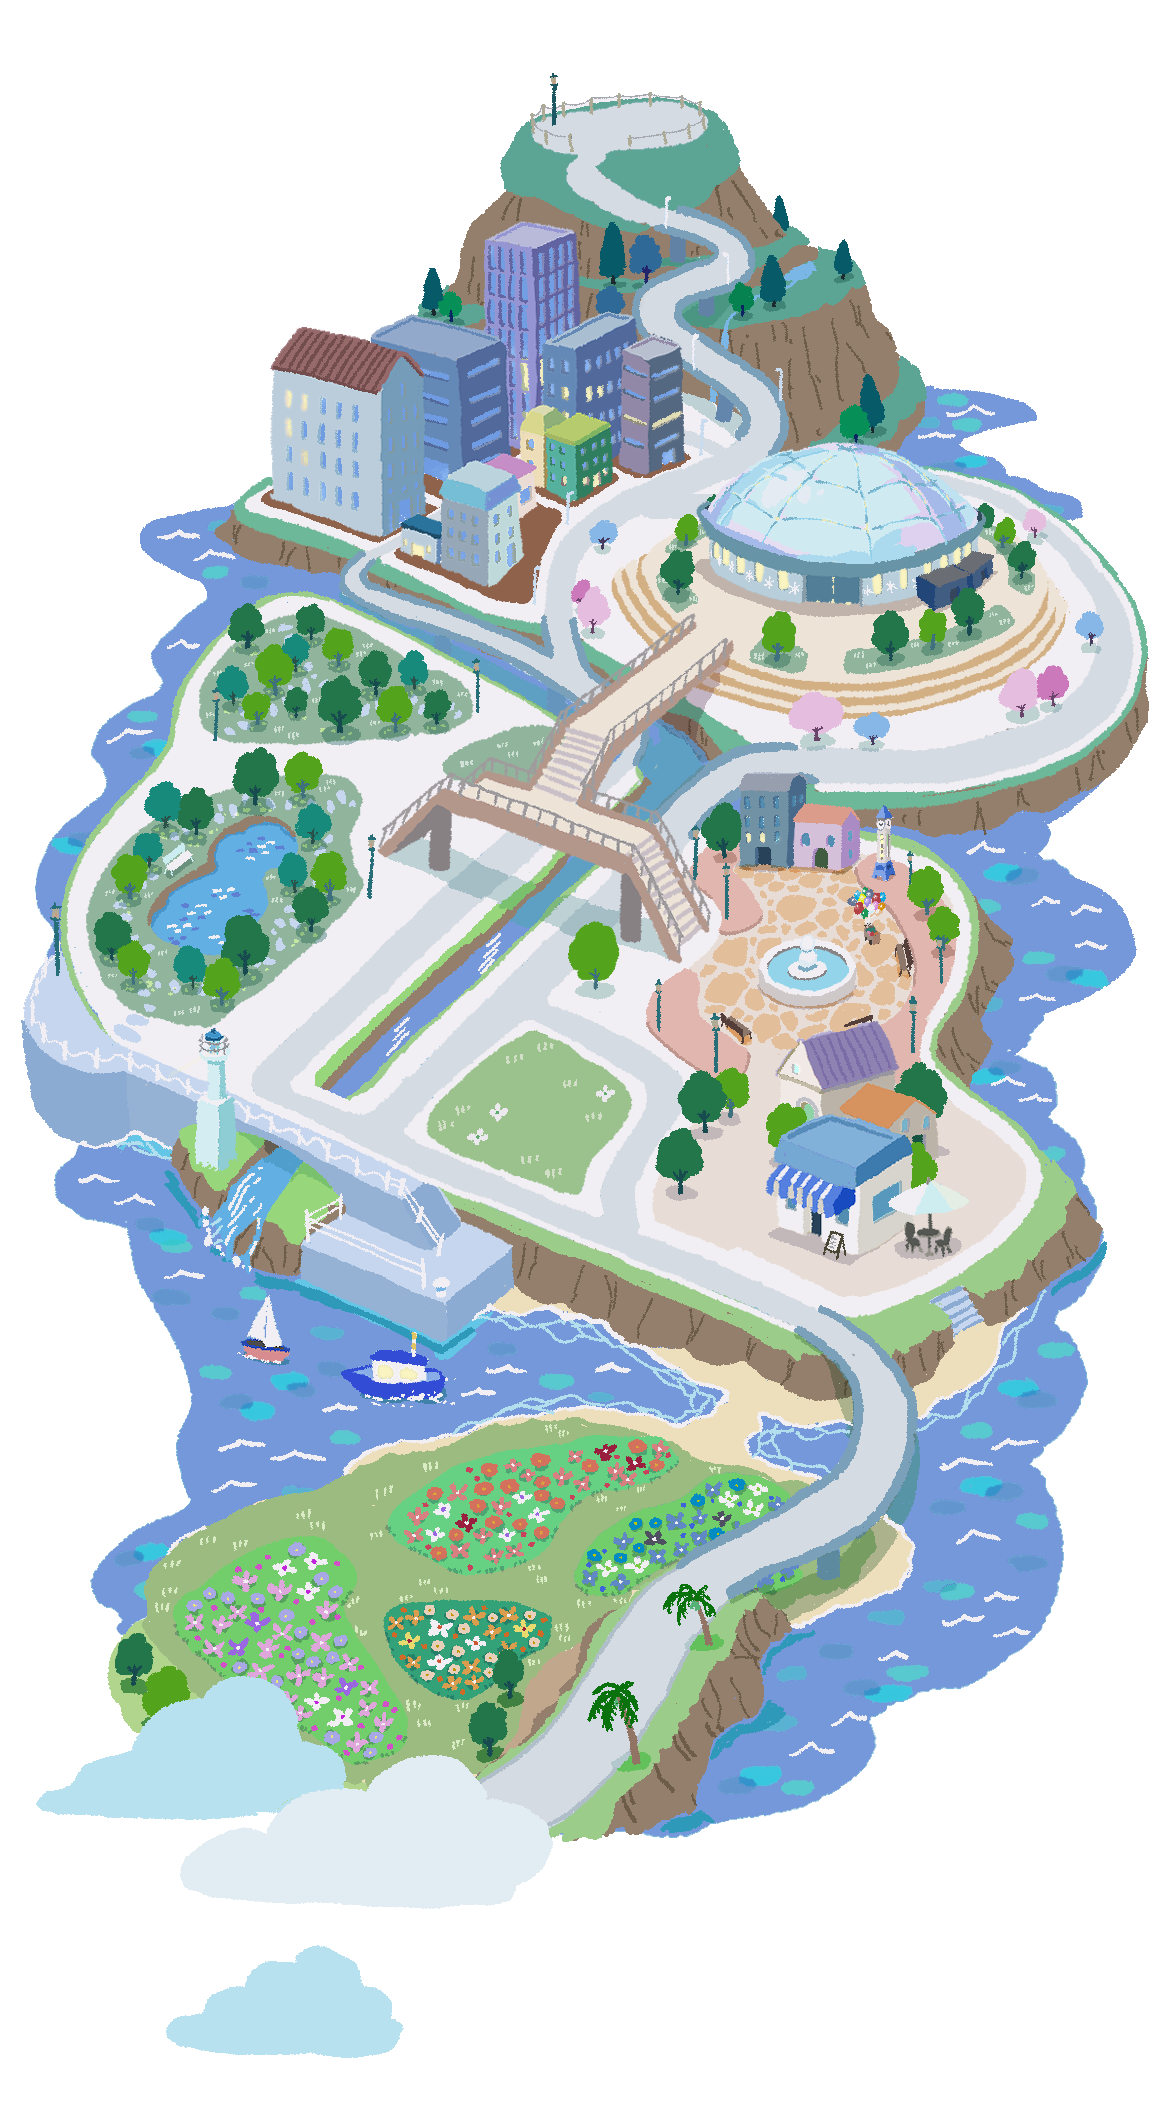
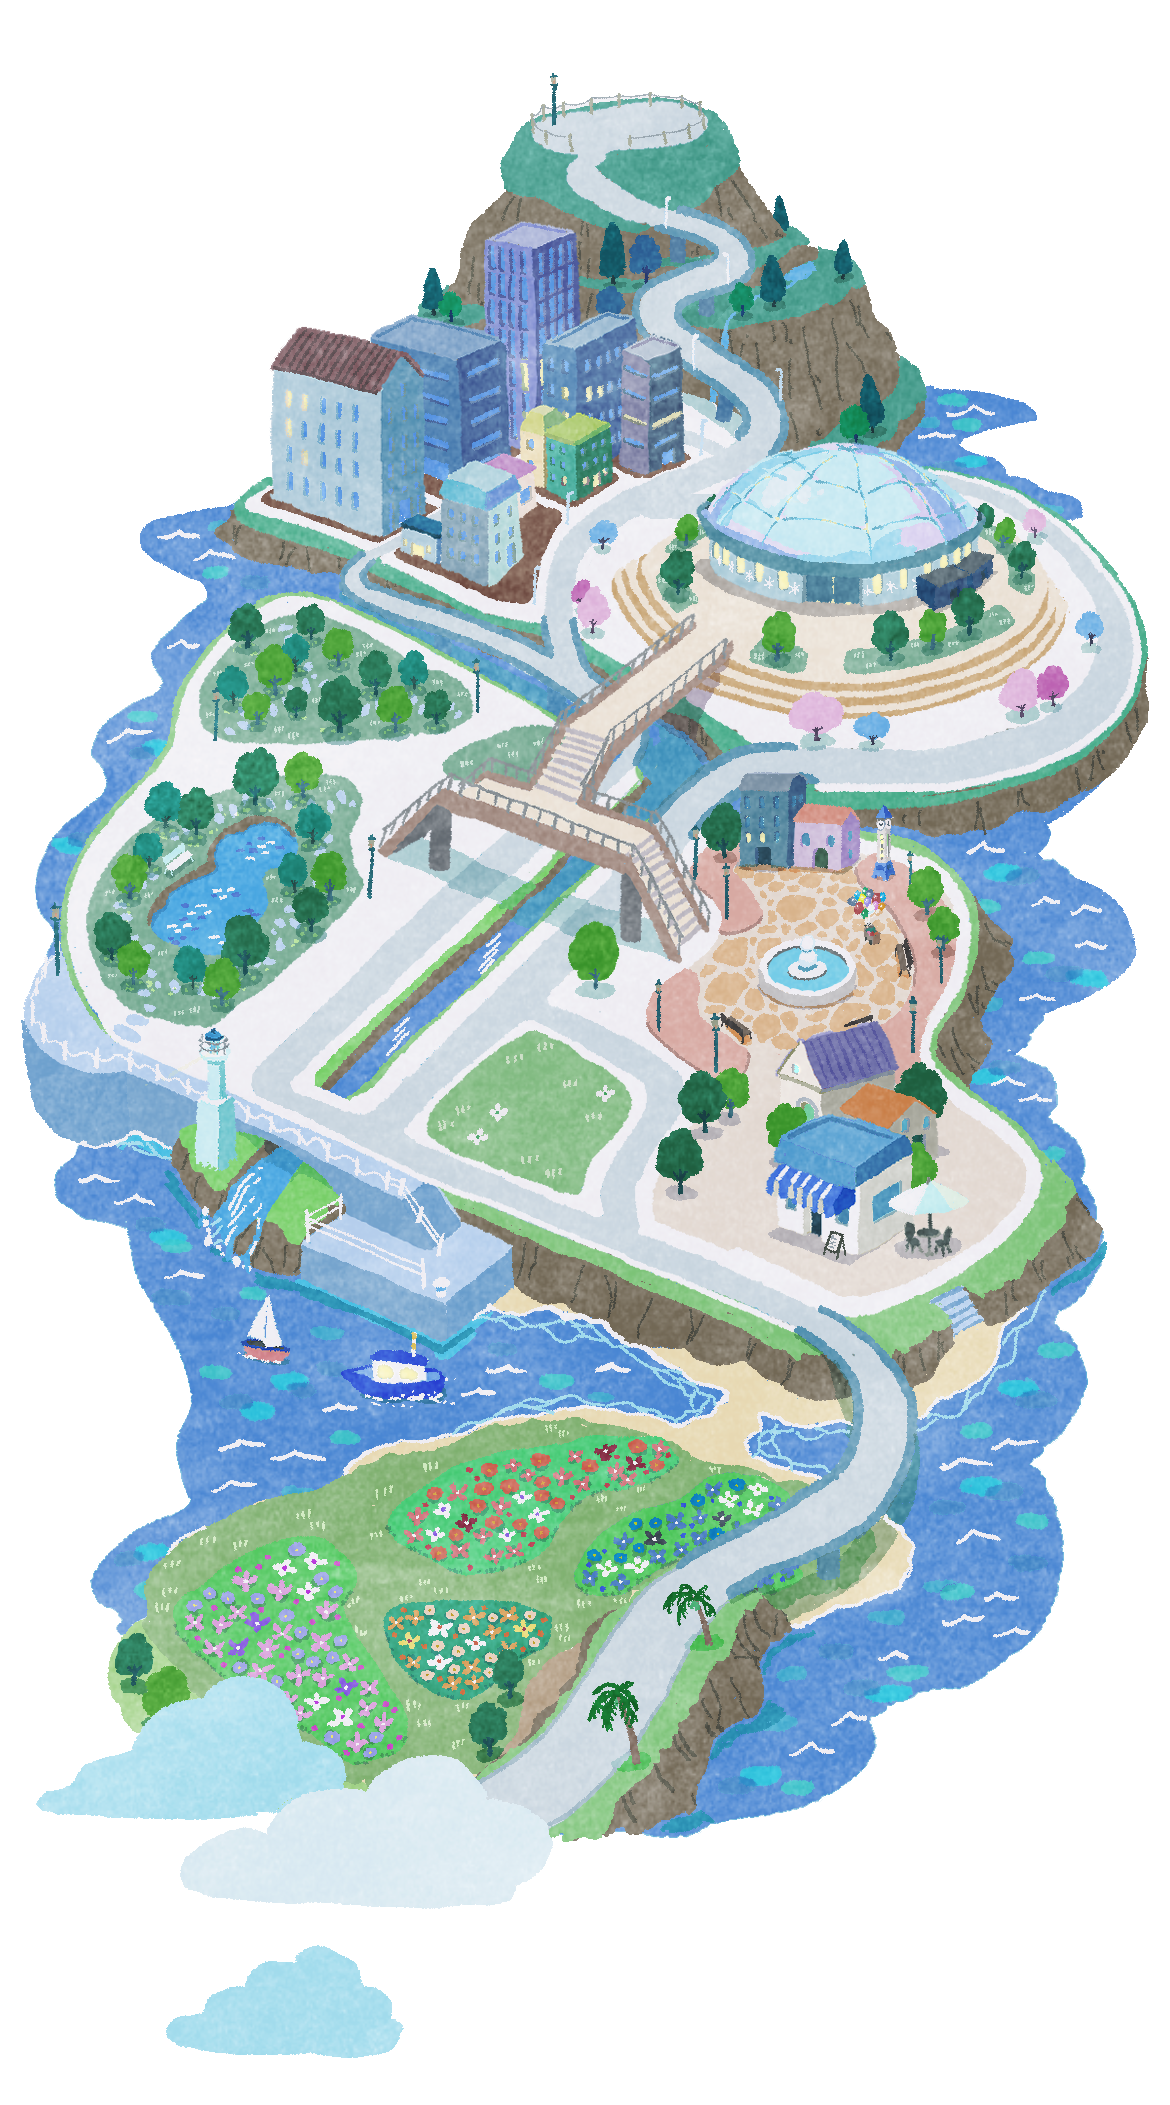
Add files via upload

diff --git a/index.html b/index.html
@@ -1909,9 +1909,9 @@ body.weather-snow .sky-stars {
       <div class="full-map-touch-layer" id="fullMapTouchLayer" aria-hidden="true"></div>
       <div class="map-stage">
         <div class="sky-clouds" id="skyClouds" aria-hidden="true">
-          <img class="sky-cloud cloud-a" data-sky-cloud src="snow-cloud-morning.png?v=01415" alt="">
-          <img class="sky-cloud cloud-b" data-sky-cloud src="snow-cloud-morning.png?v=01415" alt="">
-          <img class="sky-cloud cloud-c" data-sky-cloud src="snow-cloud-morning.png?v=01415" alt="">
+          <img class="sky-cloud cloud-a" data-sky-cloud src="snow-cloud-morning.png?v=01416" alt="">
+          <img class="sky-cloud cloud-b" data-sky-cloud src="snow-cloud-morning.png?v=01416" alt="">
+          <img class="sky-cloud cloud-c" data-sky-cloud src="snow-cloud-morning.png?v=01416" alt="">
         </div>
         <div class="weather-sky-overlay" id="weatherSkyOverlay" aria-hidden="true"></div>
         <div class="sky-stars" id="skyStars" aria-hidden="true">
@@ -1944,7 +1944,7 @@ body.weather-snow .sky-stars {
           <i class="sky-star" style="--sx:94%;--sy:24%;--ss:1.5px;--sd:4.6s;--sdelay:-2.8s"></i>
         </div>
         <div class="map-images" aria-label="海と街、Snow Dome、木漏れ日の道、はじまりの広場、ブルーハーバー、シーズンガーデンがつながるSNOW MAP">
-          <img class="map-image base" id="mapImage" src="snow-map-day.png?v=01415" alt="SNOW MAPの地図" />
+          <img class="map-image base" id="mapImage" src="snow-map-day.png?v=01416" alt="SNOW MAPの地図" />
           <img class="map-image fade" id="mapImageFade" src="" alt="" aria-hidden="true" />
         </div>
         <div class="ambient"></div>
@@ -2714,23 +2714,23 @@ body.weather-snow .sky-stars {
     const weatherSkyOverlay=document.getElementById("weatherSkyOverlay");
     const weatherEffectLayer=document.getElementById("weatherEffectLayer");
     const timeImages={
-  morning:"snow-map-morning.png?v=01415",
-  day:"snow-map-day.png?v=01415",
-  evening:"snow-map-evening.png?v=01415",
-  twilight:"snow-map-twilight.png?v=01415",
-  night:"snow-map-night.png?v=01415",
-  midnight:"snow-map-midnight.png?v=01415"
+  morning:"snow-map-morning.png?v=01416",
+  day:"snow-map-day.png?v=01416",
+  evening:"snow-map-evening.png?v=01416",
+  twilight:"snow-map-twilight.png?v=01416",
+  night:"snow-map-night.png?v=01416",
+  midnight:"snow-map-midnight.png?v=01416"
 };
     const timeClouds={
-  morning:"snow-cloud-morning.png?v=01415",
-  day:"snow-cloud-day.png?v=01415",
-  evening:"snow-cloud-evening.png?v=01415",
-  twilight:"snow-cloud-evening.png?v=01415",
-  night:"snow-cloud-night.png?v=01415",
-  midnight:"snow-cloud-night.png?v=01415"
+  morning:"snow-cloud-morning.png?v=01416",
+  day:"snow-cloud-day.png?v=01416",
+  evening:"snow-cloud-evening.png?v=01416",
+  twilight:"snow-cloud-evening.png?v=01416",
+  night:"snow-cloud-night.png?v=01416",
+  midnight:"snow-cloud-night.png?v=01416"
 };
     const skyCloudImages=[...document.querySelectorAll("[data-sky-cloud]")];
-    const WEATHER_VERSION="01415";
+    const WEATHER_VERSION="01416";
     const weatherMaps={
       snow:{
         morning:`snow-map-snow-morning.png?v=${WEATHER_VERSION}`,
